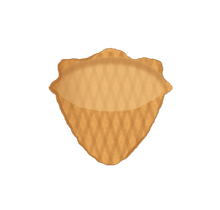
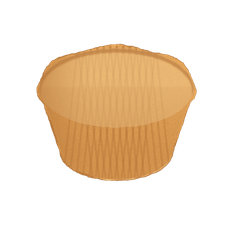
Ice cream dish: the owner's glass (iCloud Updates, 26 October) as the dish layers (dish_back with the navy shadow, dish_front_bowl = its lower front wall at half strength; no dish_front_empty), the waffle bowl redrawn deep with a flat bottom and high walls inside it (game_parts2.py), scoop row at 0.

diff --git a/Assets/Scripts/Food/IceCreamStation.cs b/Assets/Scripts/Food/IceCreamStation.cs
@@ -55,7 +55,7 @@ public class IceCreamStation : MonoBehaviour
     public float rowGap = 0.0f;                              // between the box's bottom and the dishes' tops, a fraction of the canvas height
     public float liftScale = 1.5f;                            // a lifted dish grows this much
     public float liftRise = 0.1f;                            // and rises this share of its height
-    public float scoopSpread = 0.72f, scoopTop = 0.643f, scoopZig = 0.014f;   // scoops side by side: step as a share of a scoop's width, the row's height in the dish, the odd scoops a little lower
+    public float scoopSpread = 0.72f, scoopTop = 0.669f, scoopZig = 0.014f;   // scoops side by side: step as a share of a scoop's width, the row's height in the dish, the odd scoops a little lower
     [Header("Build")] public float scoopStep = 0.62f;        // the cone flow's values, kept for the scene
     public float firstScoopDrop = 0.22f;
     public AudioClip scoopSound, serveSound;

diff --git a/Assets/Scripts/Food/IceCreamOrderIcon.cs b/Assets/Scripts/Food/IceCreamOrderIcon.cs
@@ -10,7 +10,7 @@ public class IceCreamOrderIcon : MonoBehaviour
     public Sprite[] scoopSprites = new Sprite[IceCreamStation.Flavours];      // vanilla, strawberry, chocolate, mint
     public float scoopStep = 0.62f, firstScoopDrop = 0.22f;
     public float dishScale = 0.85f;                                             // the dish against the cone's size in the bubble
-    public float scoopSpread = 0.72f, scoopTop = 0.643f, scoopZig = 0.014f;    // as on the station
+    public float scoopSpread = 0.72f, scoopTop = 0.669f, scoopZig = 0.014f;    // as on the station
     private SpriteRenderer bowl, front;
 
     /// variant: the order letters (v s c m), one per scoop, then 'w' for a waffle bowl
